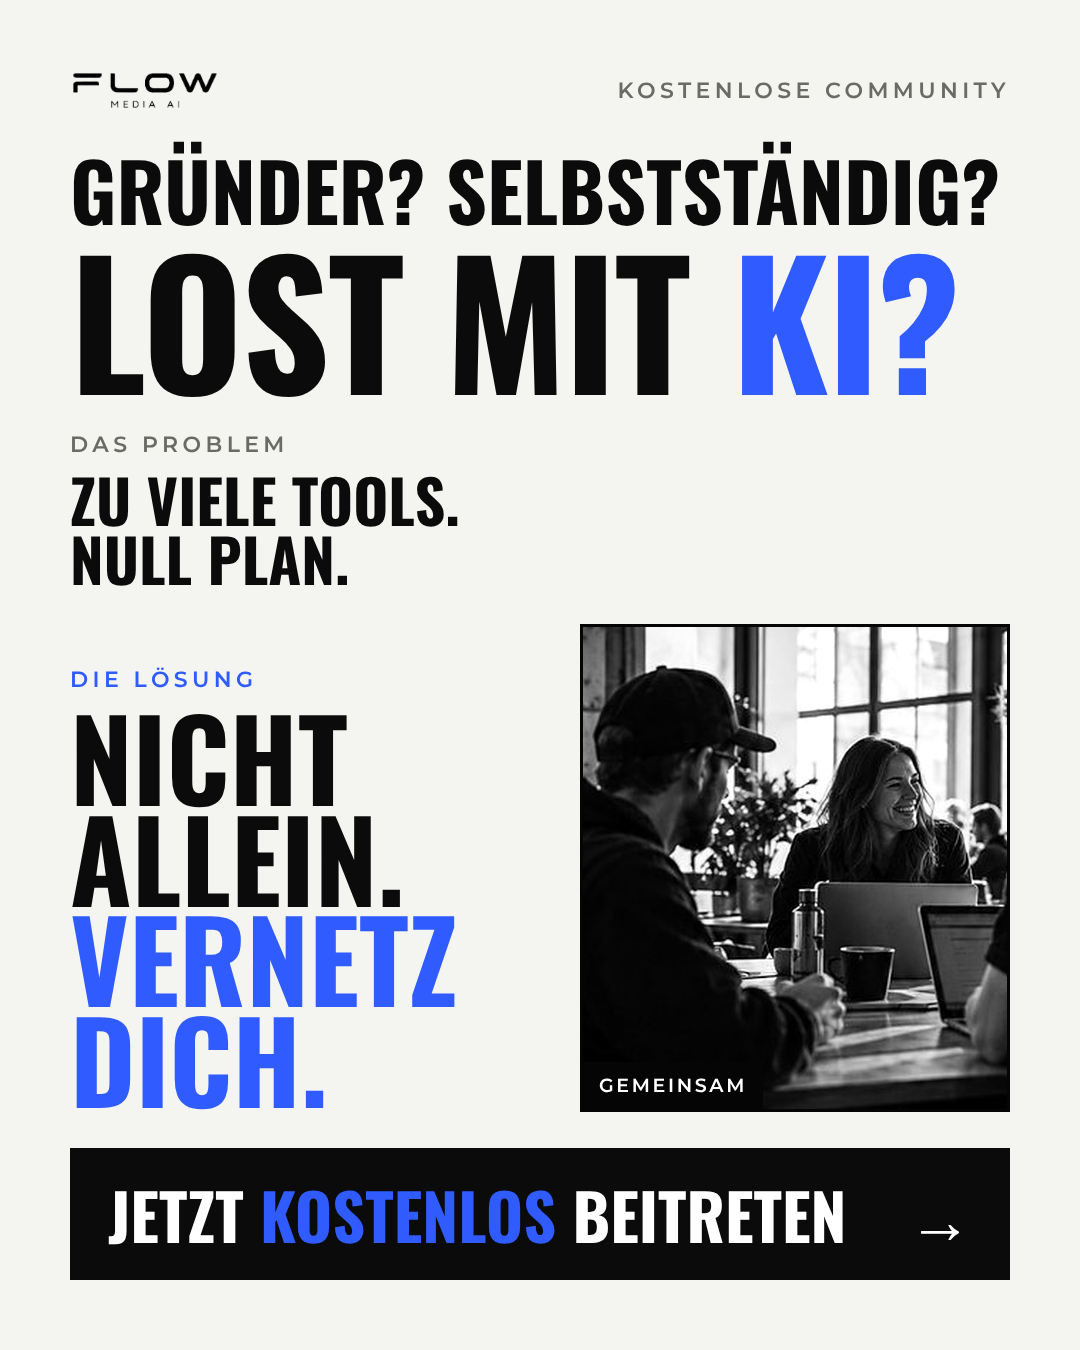
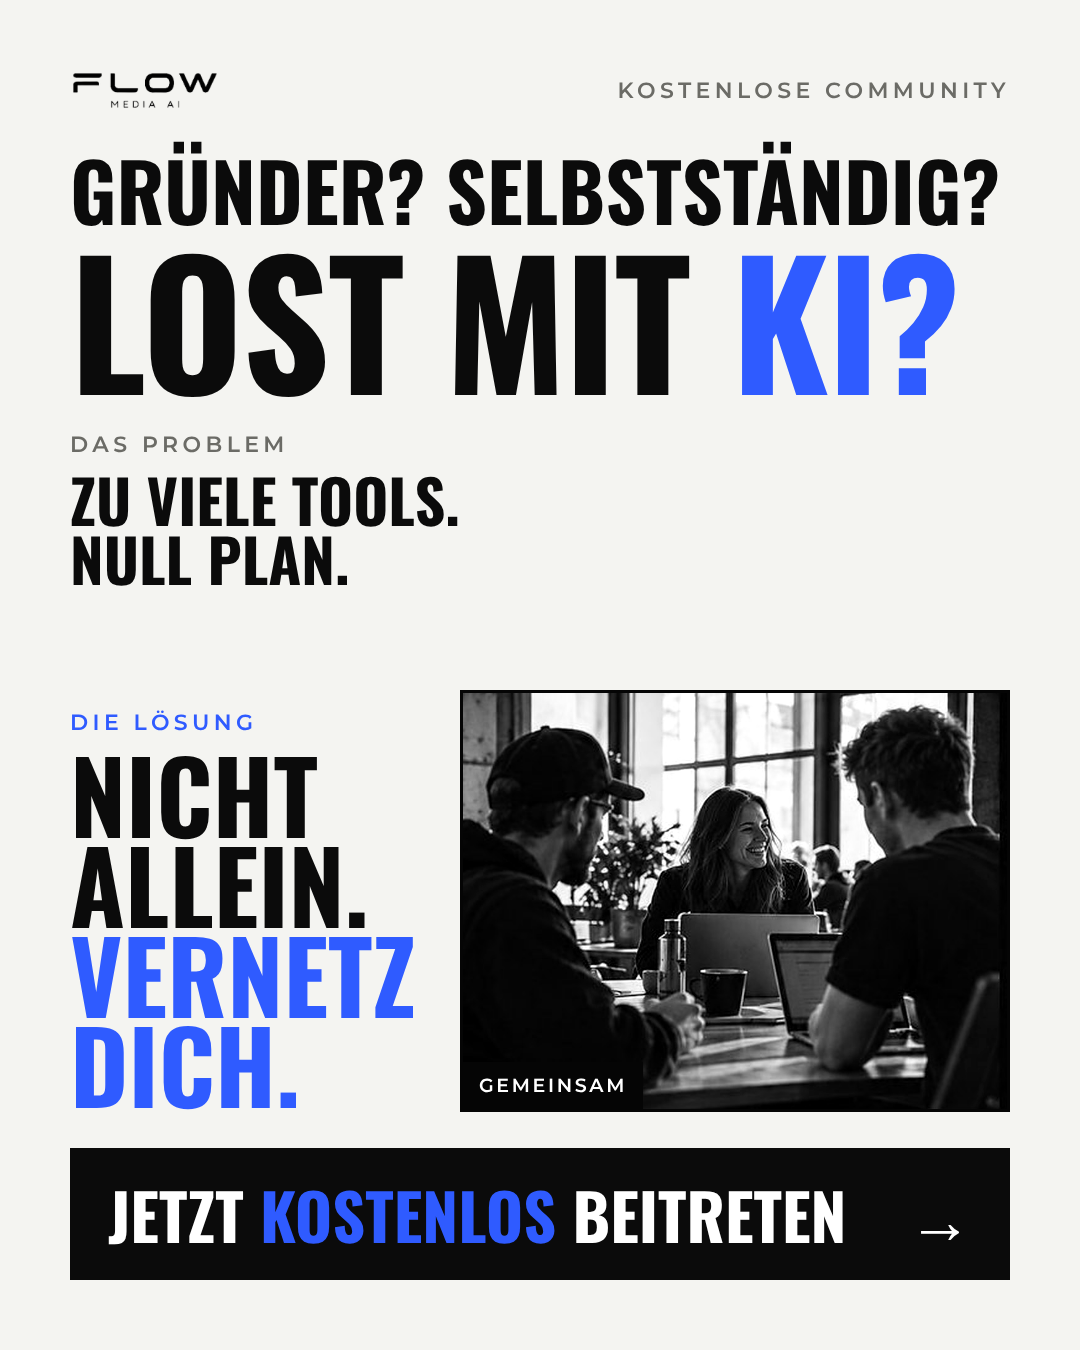
Community-Post: Bild im Querformat, alle drei Personen ganz im Bild
Claude-Session: https://claude.ai/code/session_013fteYFceKiG7Uk7Z2ie8Jy

Changed region(s): [[0.0611, 0.4356, 0.9472, 0.84]]

diff --git a/marketing/community/ad/post.html b/marketing/community/ad/post.html
@@ -12,10 +12,10 @@
 .k{font:600 22px Montserrat;letter-spacing:.2em;text-transform:uppercase;color:var(--mute);margin-bottom:12px}.k.b{color:var(--blue)}
 .t{font:700 60px/.98 Oswald;text-transform:uppercase}.t em{font-style:normal;color:var(--blue)}
 .line{height:3px;background:var(--ink);width:80px}
-.maik{flex:none;width:430px;background:url(../img/laptop_runde.jpg) 8% center/cover;filter:grayscale(1) contrast(1.05);border:3px solid var(--ink);position:relative}
+.maik{flex:none;width:550px;aspect-ratio:880/676;align-self:flex-end;background:url(../img/laptop_runde.jpg) center/cover;filter:grayscale(1) contrast(1.05);border:3px solid var(--ink);position:relative}
 .maik span{position:absolute;left:0;bottom:0;background:var(--ink);color:#fff;font:600 19px Montserrat;letter-spacing:.14em;text-transform:uppercase;padding:12px 16px}
 .cta{background:var(--ink);color:#fff;font:700 64px/1 Oswald;text-transform:uppercase;padding:34px 38px;align-items:center;display:flex;justify-content:space-between}.cta em{font-style:normal;color:var(--blue)}
-.sol{font:700 112px/.9 Oswald;text-transform:uppercase}.sol em{font-style:normal;color:var(--blue)}.txt{justify-content:flex-end!important}.p{gap:36px!important}</style></head><body><div class="p">
+.sol{font:700 100px/.9 Oswald;text-transform:uppercase}.sol em{font-style:normal;color:var(--blue)}.txt{justify-content:flex-end!important}.p{gap:36px!important}</style></head><body><div class="p">
  <div class="top"><img src="../img/logo_flow.png"><span class="lab">Kostenlose Community</span></div>
  <div><p class="ziel">Gründer? Selbstständig?</p><h1>Lost mit <em>KI?</em></h1></div>
  <div><p class="k">Das Problem</p><p class="t">Zu viele Tools.<br>Null Plan.</p></div>
